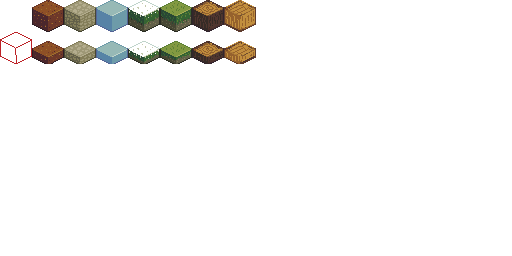
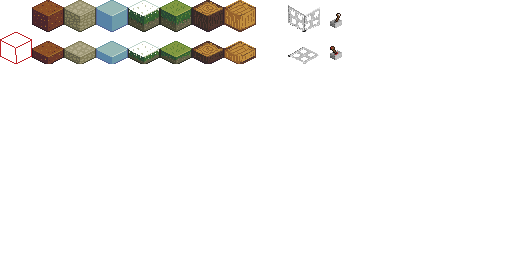
added more redstone

Changed region(s): [[0.5625, 0.0312, 0.6875, 0.125], [0.5625, 0.1875, 0.6875, 0.25]]

diff --git a/Pika/gameplay/containers/isometricGame/isometricGameEditor.cpp b/Pika/gameplay/containers/isometricGame/isometricGameEditor.cpp
@@ -19,12 +19,26 @@ static bool pointInBox(glm::vec2 p, glm::vec4 box)
 	}
 }
 
+static bool redstoneWire(int type)
+{
+	return type == IsometricGameEditor::Blocks::redstone ||
+	type == IsometricGameEditor::Blocks::trapdor ||
+	type == IsometricGameEditor::Blocks::lever;
+}
+
+static bool canPlaceRedstoneOn(int type)
+{
+	return type >= IsometricGameEditor::Blocks::clay &&
+		type <= IsometricGameEditor::Blocks::woddenPlank;
+}
+
 
 bool IsometricGameEditor::create(RequestedContainerInfo &requestedInfo, pika::StaticString<256> commandLineArgument)
 {
 	renderer.create(requestedInfo.requestedFBO.fbo);
 
 	tiles = pika::gl2d::loadTextureWithPixelPadding(PIKA_RESOURCES_PATH "isoTiles/Isometric-Tiles.png", requestedInfo, 32, true);
+	shadow = pika::gl2d::loadTexture(PIKA_RESOURCES_PATH "isoTiles/shadow.png", requestedInfo, 32, true);
 
 	tilesAtlas = gl2d::TextureAtlasPadding(16, 8, tiles.GetSize().x, tiles.GetSize().y);
 
@@ -92,6 +106,32 @@ bool IsometricGameEditor::update(pika::Input input, pika::WindowState windowStat
 #pragma endregion
 
 	float size = 100;
+	
+#pragma region move
+
+	float cameraSpeed = input.deltaTime * size * 2.f;
+
+	if (input.buttons[pika::Button::A].held())
+	{
+		renderer.currentCamera.position.x -= cameraSpeed;
+	}
+	if (input.buttons[pika::Button::D].held())
+	{
+		renderer.currentCamera.position.x += cameraSpeed;
+	}
+
+	if (input.buttons[pika::Button::W].held())
+	{
+		renderer.currentCamera.position.y -= cameraSpeed;
+	}
+	if (input.buttons[pika::Button::S].held())
+	{
+		renderer.currentCamera.position.y += cameraSpeed;
+	}
+#pragma endregion
+
+
+
 
 	auto calculateBlockPos = [size](glm::ivec3 in)
 	{
@@ -209,54 +249,99 @@ bool IsometricGameEditor::update(pika::Input input, pika::WindowState windowStat
 						color = glm::vec4(0.8, 0.2, 0.2, 1.0);
 					}
 
-					renderer.renderRectangle({position,size,size}, tiles, color, {}, 0,
-						tilesAtlas.get(b->get().x, b->get().y));
-
-					if (b->get().x == Blocks::redstone)
+					if (b->get().x == Blocks::redstone || b->get().x == Blocks::lever)
 					{
-						auto b2 = map.getSafe({x,y,z-1});
-						if (b2 && b2->type == Blocks::redstone)
+						auto cr = glm::vec4(0.8, 0.2, 0.2, 1.0);
+
+						auto b2 = map.getSafe({x,y,z - 1});
+						if (b2 && redstoneWire(b2->type))
 						{
-							renderer.renderRectangle({position,size,size}, tiles, color, {}, 0,
-								tilesAtlas.get(b->get().x, 1));
+							renderer.renderRectangle({position,size,size}, tiles, cr, {}, 0,
+								tilesAtlas.get(Blocks::redstone, 1));
 						}
 
-						b2 = map.getSafe({x-1,y,z});
-						if (b2 && b2->type == Blocks::redstone)
+						b2 = map.getSafe({x - 1,y,z});
+						if (b2 && redstoneWire(b2->type))
 						{
-							renderer.renderRectangle({position,size,size}, tiles, color, {}, 0,
-								tilesAtlas.get(b->get().x, 2));
+							renderer.renderRectangle({position,size,size}, tiles, cr, {}, 0,
+								tilesAtlas.get(Blocks::redstone, 2));
 						}
 
 						b2 = map.getSafe({x + 1,y,z});
-						if (b2 && b2->type == Blocks::redstone)
+						if (b2 && redstoneWire(b2->type))
 						{
-							renderer.renderRectangle({position,size,size}, tiles, color, {}, 0,
-								tilesAtlas.get(b->get().x, 3));
+							renderer.renderRectangle({position,size,size}, tiles, cr, {}, 0,
+								tilesAtlas.get(Blocks::redstone, 3));
 						}
 
 						b2 = map.getSafe({x,y,z + 1});
-						if (b2 && b2->type == Blocks::redstone)
+						if (b2 && redstoneWire(b2->type))
 						{
-							renderer.renderRectangle({position,size,size}, tiles, color, {}, 0,
-								tilesAtlas.get(b->get().x, 4));
+							renderer.renderRectangle({position,size,size}, tiles, cr, {}, 0,
+								tilesAtlas.get(Blocks::redstone, 4));
 						}
 
-						b2 = map.getSafe({x-1,y+1,z});
-						if (b2 && b2->type == Blocks::redstone)
+						//redstone on wall
+
+						b2 = map.getSafe({x - 1,y + 1,z});
+						if (b2 && redstoneWire(b2->type))
 						{
-							renderer.renderRectangle({position,size,size}, tiles, color, {}, 0,
-								tilesAtlas.get(b->get().x, 5));
+							renderer.renderRectangle({position,size,size}, tiles, cr, {}, 0,
+								tilesAtlas.get(Blocks::redstone, 2));
+
+							renderer.renderRectangle({position,size,size}, tiles, cr, {}, 0,
+								tilesAtlas.get(Blocks::redstone, 5));
 						}
 
-						b2 = map.getSafe({x,y+1,z-1});
-						if (b2 && b2->type == Blocks::redstone)
+						b2 = map.getSafe({x,y + 1,z - 1});
+						if (b2 && redstoneWire(b2->type))
 						{
-							renderer.renderRectangle({position,size,size}, tiles, color, {}, 0,
-								tilesAtlas.get(b->get().x, 6));
+							renderer.renderRectangle({position,size,size}, tiles, cr, {}, 0,
+								tilesAtlas.get(Blocks::redstone, 1));
+
+							renderer.renderRectangle({position,size,size}, tiles, cr, {}, 0,
+								tilesAtlas.get(Blocks::redstone, 6));
+						}
+
+
+						//redstone down
+
+						b2 = map.getSafe({x + 1,y - 1,z});
+						if (b2 && redstoneWire(b2->type))
+						{
+							renderer.renderRectangle({position,size,size}, tiles, cr, {}, 0,
+								tilesAtlas.get(Blocks::redstone, 3));
+						}
+
+						b2 = map.getSafe({x,y - 1,z + 1});
+						if (b2 && redstoneWire(b2->type))
+						{
+							renderer.renderRectangle({position,size,size}, tiles, cr, {}, 0,
+								tilesAtlas.get(Blocks::redstone, 4));
 						}
 
 					}
+
+					renderer.renderRectangle({position,size,size}, tiles, color, {}, 0,
+						tilesAtlas.get(b->get().x, b->get().y));
+
+					int advance = 1;
+					for (int y2 = y + 2; y2 < map.size.y; y2++)
+					{
+						advance++;
+
+						auto b2 = map.getSafe({x,y2,z});
+
+						if (b2 && b2->get().x != 0)
+						{
+							renderer.renderRectangle({position,size,size}, shadow, 
+								{1,1,1,1.f/advance}
+							);
+							break;
+						}
+
+					}
+
 				}
 
 				if (currentSelectedBlockDelete == glm::ivec3{x, y, z})
@@ -299,7 +384,18 @@ bool IsometricGameEditor::update(pika::Input input, pika::WindowState windowStat
 			auto b = map.getSafe(currentSelectedBlockPlace);
 			if (b)
 			{
-				b->set(currentBlock, 0);
+				if (currentBlock == Blocks::redstone || currentBlock == Blocks::trapdor)
+				{
+					auto b2 = map.getSafe(currentSelectedBlockPlace - glm::ivec3(0,1,0));
+					if (b2 && canPlaceRedstoneOn(b2->get().x))
+					{
+						b->set(currentBlock, 0);
+					}
+				}
+				else
+				{
+					b->set(currentBlock, 0);
+				}
 			}
 		}
 	}

diff --git a/Pika/gameplay/containers/isometricGame/isometricGameEditor.h b/Pika/gameplay/containers/isometricGame/isometricGameEditor.h
@@ -22,7 +22,9 @@ struct IsometricGameEditor: public Container
 		dirt,
 		log,
 		woddenPlank,
-		redstone
+		redstone,
+		trapdor,
+		lever,
 	};
 
 
@@ -32,6 +34,7 @@ struct IsometricGameEditor: public Container
 	pika::pikaImgui::FileSelector loadedLevel;
 
 	gl2d::Texture tiles;
+	gl2d::Texture shadow;
 	gl2d::TextureAtlasPadding tilesAtlas;
 
 	glm::ivec3 newMapSize = {};
